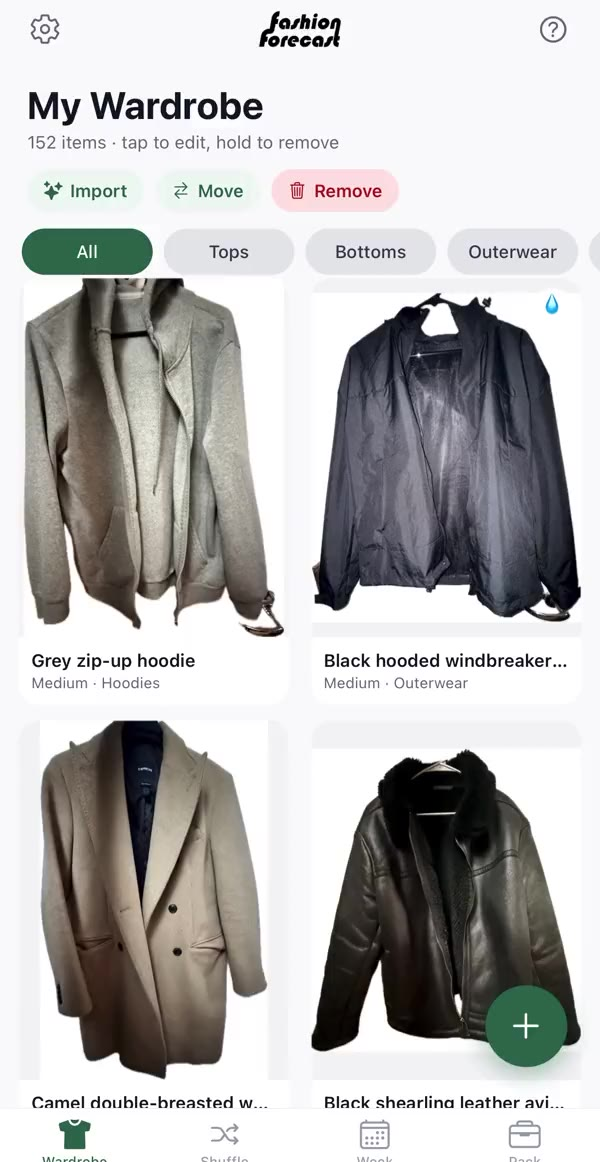
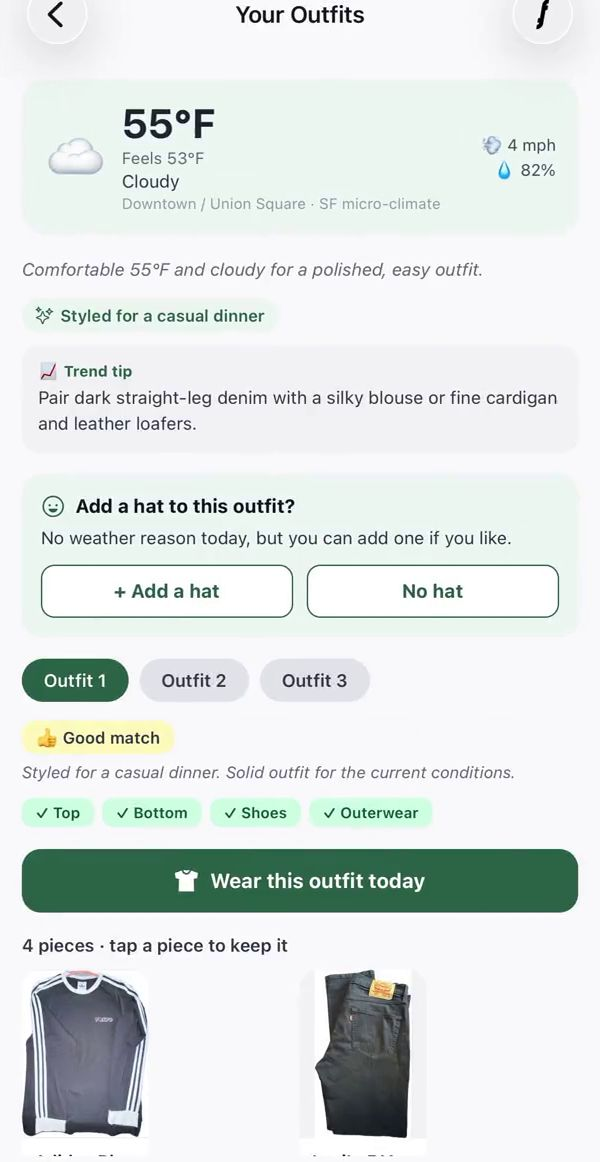
Homepage: tester-recruiting pass

diff --git a/index.html b/index.html
@@ -3,19 +3,21 @@
 <head>
 <meta charset="utf-8">
 <meta name="viewport" content="width=device-width, initial-scale=1">
-<meta name="description" content="Outfits from your own closet, matched to the live forecast for your neighborhood, your city, or your next trip.">
+<meta name="description" content="Outfits from your own closet, matched to the live forecast for your SF neighborhood, or any city you're headed to.">
 <title>Fashion Forecast</title>
 <link rel="canonical" href="https://getfashionforecast.com/">
 <meta property="og:type" content="website">
 <meta property="og:title" content="Fashion Forecast">
-<meta property="og:description" content="Outfits from your own closet, matched to the live forecast for your neighborhood, your city, or your next trip.">
+<meta property="og:description" content="Outfits from your own closet, matched to the live forecast for your SF neighborhood, or any city you're headed to.">
 <meta property="og:image" content="https://getfashionforecast.com/assets/og.png">
 <meta property="og:image:width" content="1200">
 <meta property="og:image:height" content="630">
 <meta property="og:url" content="https://getfashionforecast.com/">
 <meta name="twitter:card" content="summary_large_image">
 <link rel="icon" type="image/png" href="assets/icon.png">
-<link rel="stylesheet" href="https://fonts.googleapis.com/css2?family=Montserrat:wght@400;600;700;800;900&family=Inter:wght@400;500;600&display=swap">
+<link rel="preconnect" href="https://fonts.googleapis.com">
+<link rel="preconnect" href="https://fonts.gstatic.com" crossorigin>
+<link rel="stylesheet" href="https://fonts.googleapis.com/css2?family=Montserrat:wght@800;900&family=Inter:wght@400;500;600&display=swap">
 <style>
 :root {
   --green:      #2D6A4F;
@@ -213,7 +215,6 @@ a:hover { text-decoration: underline }
   object-fit: cover;
   object-position: top center;
 }
-.phone-screen--full .phone-media { object-position: 50% 30% }
 .phone-island {
   position: absolute;
   z-index: 2;
@@ -265,6 +266,18 @@ a:hover { text-decoration: underline }
 .text-link { font-size: 15px; font-weight: 600; color: var(--green-text) }
 .text-link span { display: inline-block; transition: transform .2s ease }
 .text-link:hover span { transform: translateX(3px) }
+
+/* Desktop-only QR to the beta; stays black-on-white in dark mode so phones can scan it */
+.qr-card { display: flex; align-items: center; gap: 16px; margin-top: 28px }
+.qr-box {
+  flex: none;
+  background: #fff;
+  border: 1px solid var(--border);
+  border-radius: 14px;
+  padding: 8px;
+}
+.qr-box img { width: 120px; height: 120px }
+.qr-caption { font-size: 13px; color: var(--fg-3); max-width: 17ch; line-height: 1.5; text-align: left }
 
 .hero-device {
   position: relative;
@@ -379,6 +392,74 @@ a:hover { text-decoration: underline }
 .plan-name { font-family: var(--ff-display); font-weight: 800; font-size: 1.05rem; margin-bottom: 6px }
 .plan p { font-size: 15px; color: var(--fg-2); line-height: 1.6 }
 .plan .plan-price { margin-top: 12px; font-size: 14px; font-weight: 600; color: var(--fg) }
+.plan .plan-beta { margin-top: 14px }
+.plan-beta .chip { display: inline-block }
+
+/* ── Beta testers ───────────────────────────────────────────────── */
+.beta {
+  max-width: 760px;
+  margin: 0 auto 72px;
+  text-align: center;
+  scroll-margin-top: 24px;
+}
+.beta-card {
+  margin-top: 24px;
+  background: var(--surface);
+  border: 1px solid var(--border);
+  border-radius: 20px;
+  text-align: left;
+  overflow: hidden;
+}
+.beta-grid { display: grid; grid-template-columns: 1fr 1fr }
+.beta-col { padding: 28px 28px 30px }
+.beta-col + .beta-col { border-left: 1px solid var(--border) }
+.beta-col h3 { font-family: var(--ff-display); font-weight: 800; font-size: 1.05rem; color: var(--fg); margin-bottom: 12px }
+.beta-col ul { list-style: none; display: grid; gap: 10px }
+.beta-col li {
+  position: relative;
+  padding-left: 20px;
+  font-size: 15px;
+  color: var(--fg-2);
+  line-height: 1.6;
+  overflow-wrap: anywhere;
+}
+.beta-col li::before {
+  content: "";
+  position: absolute;
+  left: 2px;
+  top: .62em;
+  width: 7px;
+  height: 7px;
+  border-radius: 50%;
+  background: var(--green-text);
+}
+.beta-steps {
+  list-style: none;
+  counter-reset: step;
+  display: flex;
+  flex-wrap: wrap;
+  gap: 12px 28px;
+  padding: 20px 28px;
+  border-top: 1px solid var(--border);
+  background: var(--mint);
+  font-size: 14px;
+  font-weight: 500;
+  color: var(--fg-2);
+}
+.beta-steps li { counter-increment: step; display: flex; align-items: center; gap: 10px }
+.beta-steps li::before {
+  content: counter(step);
+  flex: none;
+  display: grid;
+  place-items: center;
+  width: 24px;
+  height: 24px;
+  border-radius: 50%;
+  background: var(--green);
+  color: #fff;
+  font-size: 12px;
+  font-weight: 600;
+}
 
 /* ── Privacy strip ──────────────────────────────────────────────── */
 .privacy-strip {
@@ -416,12 +497,15 @@ a:hover { text-decoration: underline }
 /* ── Bottom CTA ─────────────────────────────────────────────────── */
 .final-cta { text-align: center; max-width: var(--max); margin: 0 auto; padding: 24px 0 8px }
 .final-cta .section-title { margin-bottom: 24px }
+.final-actions { display: flex; align-items: center; justify-content: center; gap: 48px }
+.final-actions .qr-card { margin-top: 0 }
 
 /* ── Responsive ─────────────────────────────────────────────────── */
 @media (max-width: 760px) {
   .hero { grid-template-columns: 1fr; gap: 48px; padding: 40px 0 64px; text-align: center }
   .hero-sub { max-width: 100%; font-size: 17px }
   .hero-actions { justify-content: center; gap: 20px }
+  .qr-card { display: none }
   .phone--hero { --w: 240px }
   .how-head { margin-bottom: 36px }
   .step, .step--flip { grid-template-columns: 1fr; gap: 28px; margin-bottom: 56px }
@@ -431,6 +515,10 @@ a:hover { text-decoration: underline }
   .step p:not(.step-num) { max-width: 100% }
   .pricing-grid { grid-template-columns: 1fr }
   .plan + .plan { border-left: 0; border-top: 1px solid var(--border) }
+  .beta-grid { grid-template-columns: 1fr }
+  .beta-col { padding: 24px }
+  .beta-col + .beta-col { border-left: 0; border-top: 1px solid var(--border) }
+  .beta-steps { flex-direction: column; padding: 20px 24px }
   .privacy-strip { grid-template-columns: 1fr; padding: 36px 24px }
   .lock-icon { display: none }
 }
@@ -451,14 +539,18 @@ a:hover { text-decoration: underline }
 <main>
   <section class="hero">
     <div class="hero-text">
-      <p class="hero-eyebrow">Free on iPhone · Now in beta</p>
+      <p class="hero-eyebrow">Free iPhone beta · Built in San Francisco</p>
       <h1 class="hero-headline">Get dressed for the weather you'll actually have.</h1>
-      <p class="hero-sub">Outfits from your own closet, matched to the live forecast for your neighborhood, your city, or your next trip.</p>
+      <p class="hero-sub">Outfits from your own closet, matched to the live forecast for your SF neighborhood, or any city you're headed to.</p>
       <div class="hero-actions">
         <a class="btn" href="https://testflight.apple.com/join/CdHsgztK">Join the beta</a>
         <a class="text-link" href="#how">See how it works <span aria-hidden="true">→</span></a>
       </div>
-      <p class="cta-note">Free iPhone beta via Apple's TestFlight app.</p>
+      <p class="cta-note">Free iPhone beta via Apple's TestFlight app · 18+</p>
+      <div class="qr-card">
+        <div class="qr-box"><img src="assets/testflight-qr.svg" width="120" height="120" alt="QR code for the Fashion Forecast TestFlight beta"></div>
+        <p class="qr-caption">On a computer? Scan with your iPhone camera.</p>
+      </div>
     </div>
     <div class="hero-device">
       <div class="phone phone--hero">
@@ -466,7 +558,7 @@ a:hover { text-decoration: underline }
         <div class="phone-screen">
           <div class="phone-status"></div>
           <video class="phone-media hero-video" autoplay muted loop playsinline preload="metadata" poster="assets/hero-poster.jpg" aria-label="Fashion Forecast: picking an outfit for today's weather"><source src="assets/hero-loop.mp4" type="video/mp4"></video>
-          <img class="phone-media hero-still" src="assets/hero-poster.jpg" width="600" height="1162" alt="Fashion Forecast wardrobe screen with photographed jackets and coats">
+          <img class="phone-media hero-still" src="assets/hero-poster.jpg" width="600" height="1162" alt="Fashion Forecast outfit screen: 55°F and cloudy in Downtown / Union Square, with today's outfit picked from the user's own clothes">
         </div>
       </div>
     </div>
@@ -482,8 +574,9 @@ a:hover { text-decoration: underline }
       <div class="step-media">
         <div class="phone phone--step">
           <div class="phone-island"></div>
-          <div class="phone-screen phone-screen--full">
-            <img class="phone-media" src="assets/wardrobe.png" width="750" height="1630" loading="lazy" decoding="async" alt="My Wardrobe screen: a grid of photographed jackets and coats, each tagged with warmth and category">
+          <div class="phone-screen">
+            <div class="phone-status"></div>
+            <img class="phone-media" src="assets/wardrobe.png" width="750" height="1530" loading="lazy" decoding="async" alt="My Wardrobe screen: a grid of photographed jackets and coats, each tagged with warmth and category">
           </div>
         </div>
       </div>
@@ -530,7 +623,7 @@ a:hover { text-decoration: underline }
   </section>
 
   <section class="pricing" aria-labelledby="pricing-title">
-    <p class="section-label" id="pricing-title">Pricing</p>
+    <p class="section-label" id="pricing-title">Pricing after launch</p>
     <div class="pricing-grid">
       <div class="plan">
         <p class="plan-name">Free</p>
@@ -539,6 +632,7 @@ a:hover { text-decoration: underline }
       <div class="plan">
         <p class="plan-name">Pro</p>
         <p>Trip planner, week planner, history and unlimited reshuffles.</p>
+        <p class="plan-beta"><span class="chip">Free for beta testers</span></p>
         <p class="plan-price">$4.99/month, $29.99/year, or $59.99 once.</p>
       </div>
     </div>
@@ -547,7 +641,7 @@ a:hover { text-decoration: underline }
   <section class="privacy-strip">
     <div>
       <h2>Your wardrobe lives on your phone.</h2>
-      <p>No account, no ads, no tracking. Your photos, wear history and trips are stored on your device. When you use AI Import, photos pass through our server to be tagged and aren't stored by us. Weather lookups use an approximate location, rounded to about 1 km. <a href="privacy.html">Read the privacy policy</a></p>
+      <p>No account, no ads, no tracking. Your photos, wear history and trips are stored on your device. When you use AI Import, photos pass through our server to be tagged and aren't stored by us. Weather lookups use an approximate location (about 1 km) or the trip city you type. <a href="privacy.html">Read the privacy policy</a></p>
       <div class="privacy-pills">
         <span class="pill">No account</span>
         <span class="pill">No ads</span>
@@ -559,10 +653,47 @@ a:hover { text-decoration: underline }
     <svg class="lock-icon" viewBox="0 0 24 24" fill="none" stroke="currentColor" stroke-width="1.5" stroke-linecap="round" stroke-linejoin="round" aria-hidden="true"><rect x="4.5" y="10.5" width="15" height="10" rx="2.5"/><path d="M8 10.5V7.5a4 4 0 0 1 8 0v3"/><path d="M12 14.5v2"/></svg>
   </section>
 
+  <section class="beta" id="beta" aria-labelledby="beta-title">
+    <p class="section-label">Beta testers</p>
+    <h2 class="section-title" id="beta-title">What you get, and what we ask.</h2>
+    <div class="beta-card">
+      <div class="beta-grid">
+        <div class="beta-col">
+          <h3>You get</h3>
+          <ul>
+            <li>Every Pro feature free during the beta: trip planner, week planner, history, unlimited reshuffles.</li>
+            <li>Your first outfit in about 5 minutes: add 10 pieces and go.</li>
+            <li>A say in what we build next.</li>
+          </ul>
+        </div>
+        <div class="beta-col">
+          <h3>We ask</h3>
+          <ul>
+            <li>Use it on a few real mornings.</li>
+            <li>Tell us what broke or felt off: screenshot in TestFlight, or email <a href="mailto:hello.fashionforecast@gmail.com">hello.fashionforecast@gmail.com</a>.</li>
+          </ul>
+        </div>
+      </div>
+      <ol class="beta-steps">
+        <li><a href="https://apps.apple.com/app/testflight/id899247664">Get Apple's free TestFlight app</a></li>
+        <li>Tap Join the beta</li>
+        <li>Open Fashion Forecast</li>
+      </ol>
+    </div>
+  </section>
+
   <section class="final-cta">
     <h2 class="section-title">Try it before everyone else.</h2>
-    <a class="btn" href="https://testflight.apple.com/join/CdHsgztK">Join the beta</a>
-    <p class="cta-note">Free iPhone beta via Apple's TestFlight app.</p>
+    <div class="final-actions">
+      <div>
+        <a class="btn" href="https://testflight.apple.com/join/CdHsgztK">Join the beta</a>
+        <p class="cta-note">Free iPhone beta via Apple's TestFlight app · 18+</p>
+      </div>
+      <div class="qr-card">
+        <div class="qr-box"><img src="assets/testflight-qr.svg" width="120" height="120" alt="QR code for the Fashion Forecast TestFlight beta"></div>
+        <p class="qr-caption">On a computer? Scan with your iPhone camera.</p>
+      </div>
+    </div>
   </section>
 </main>
 
